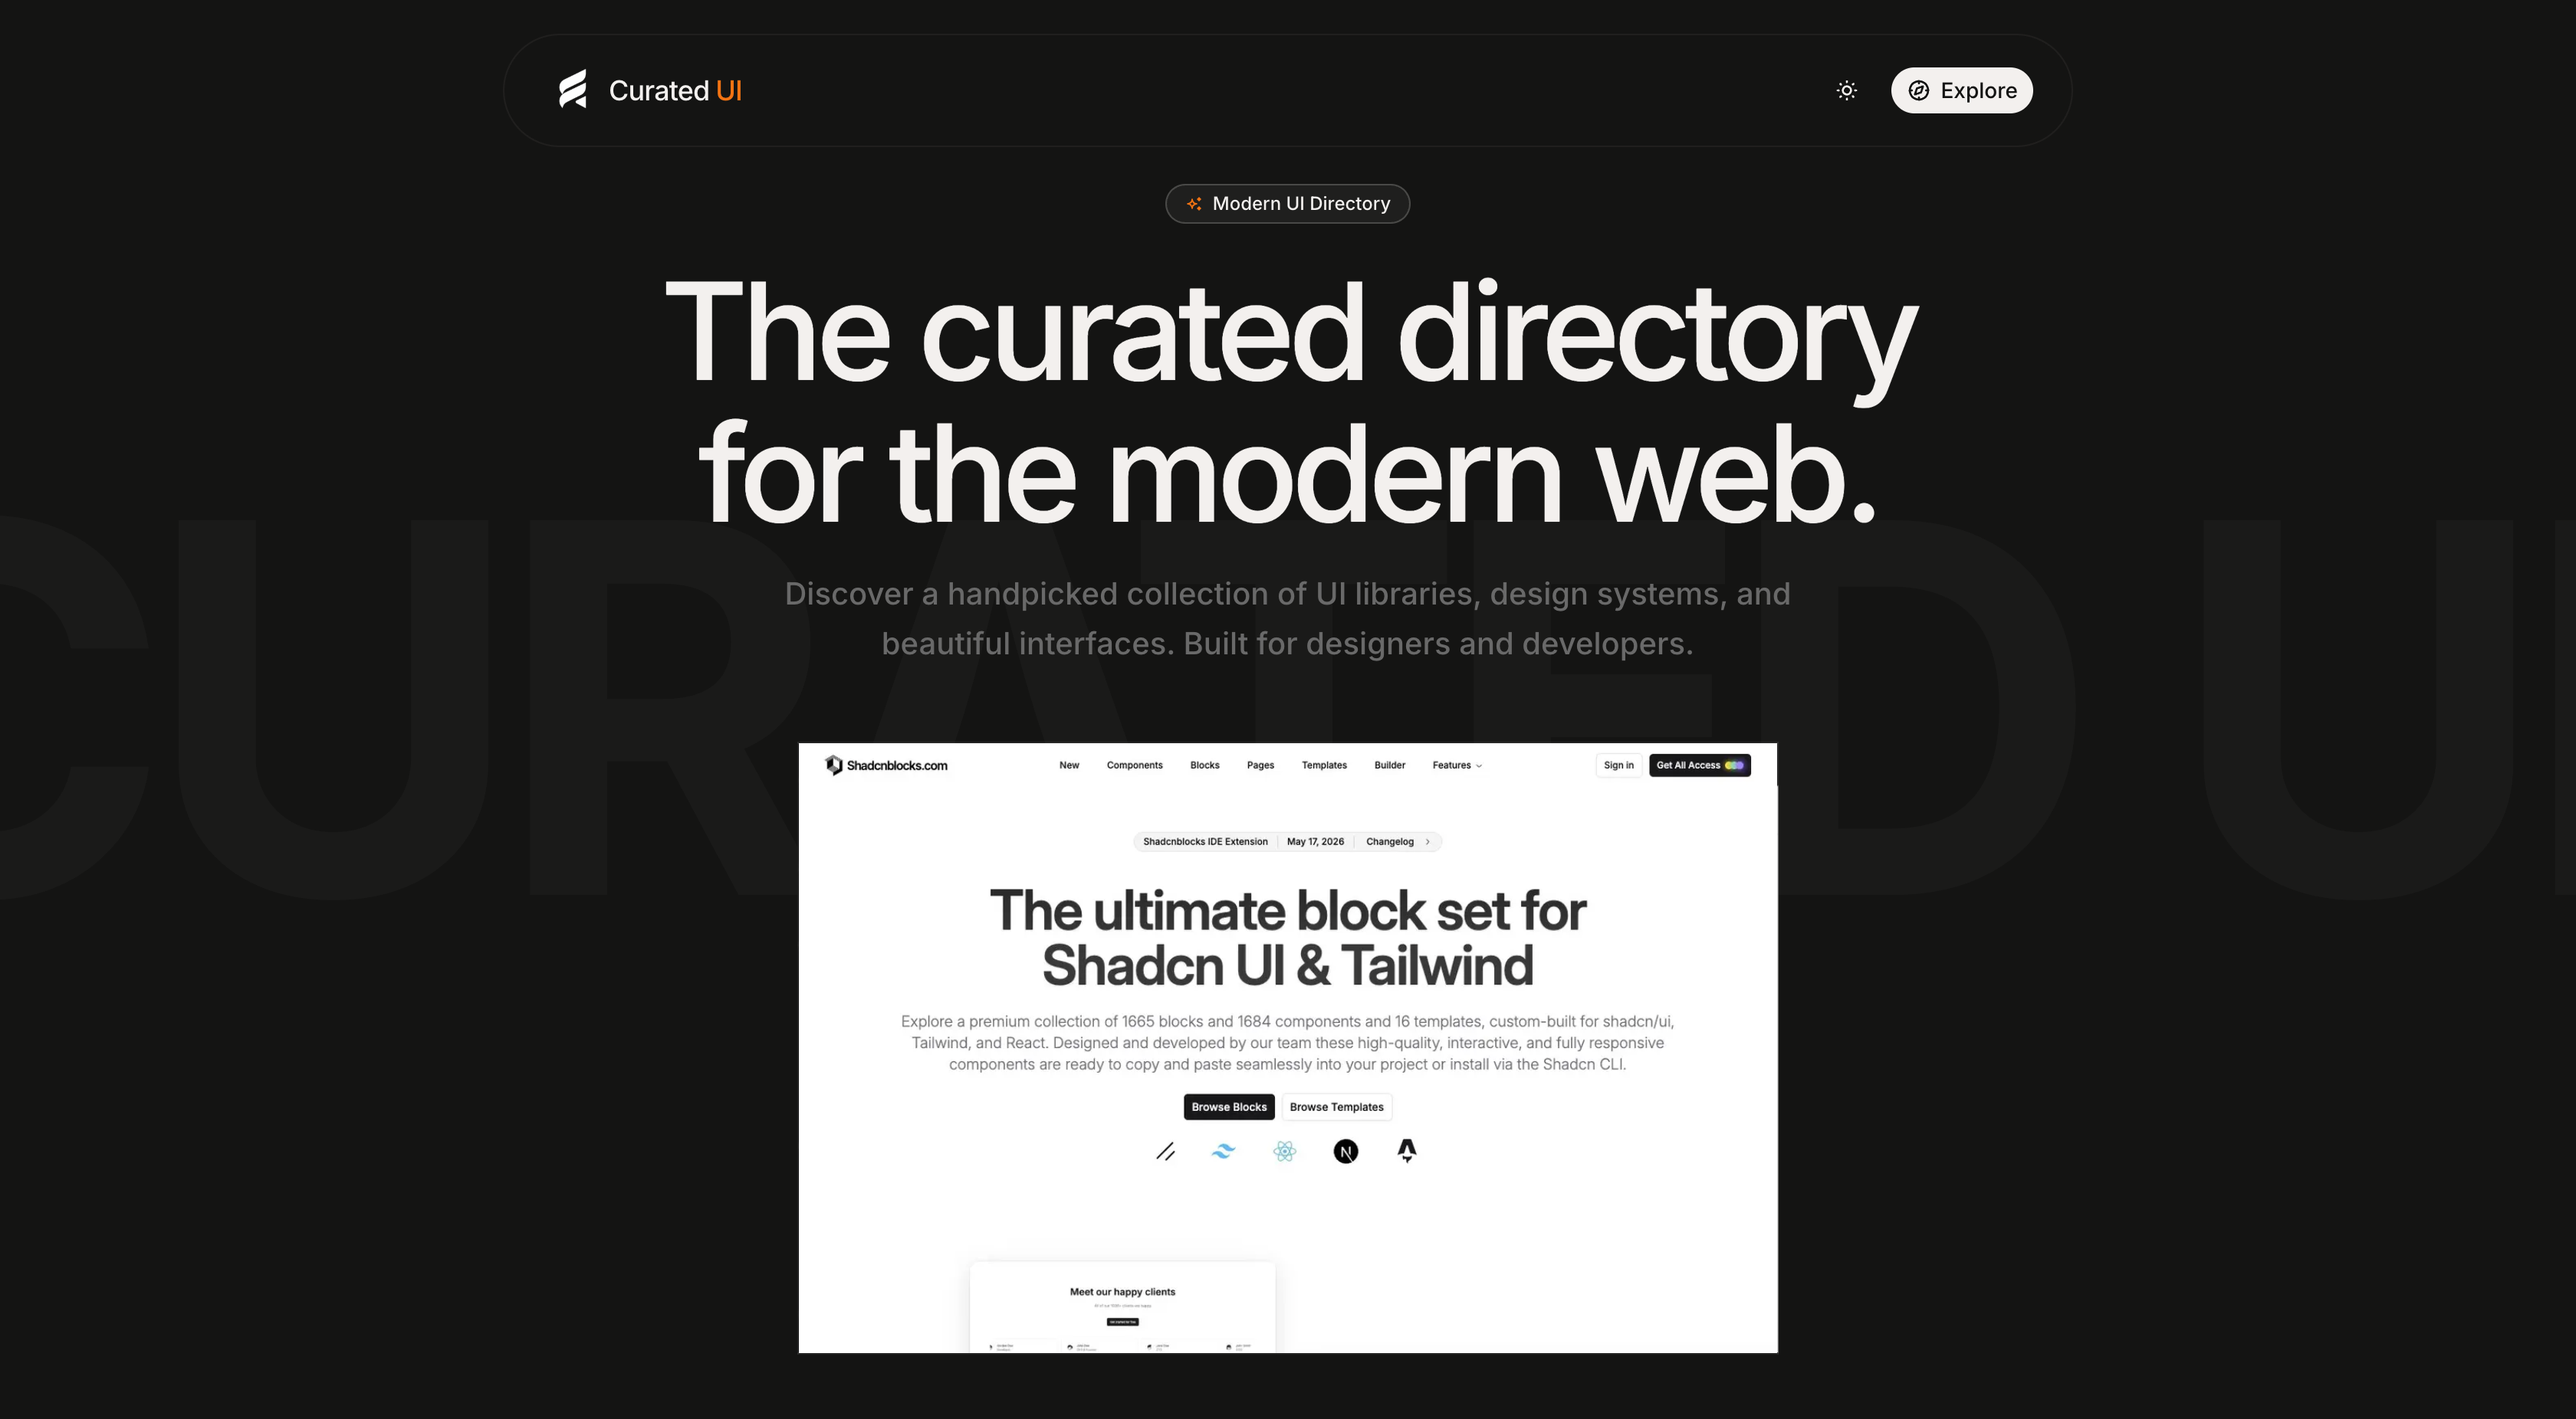
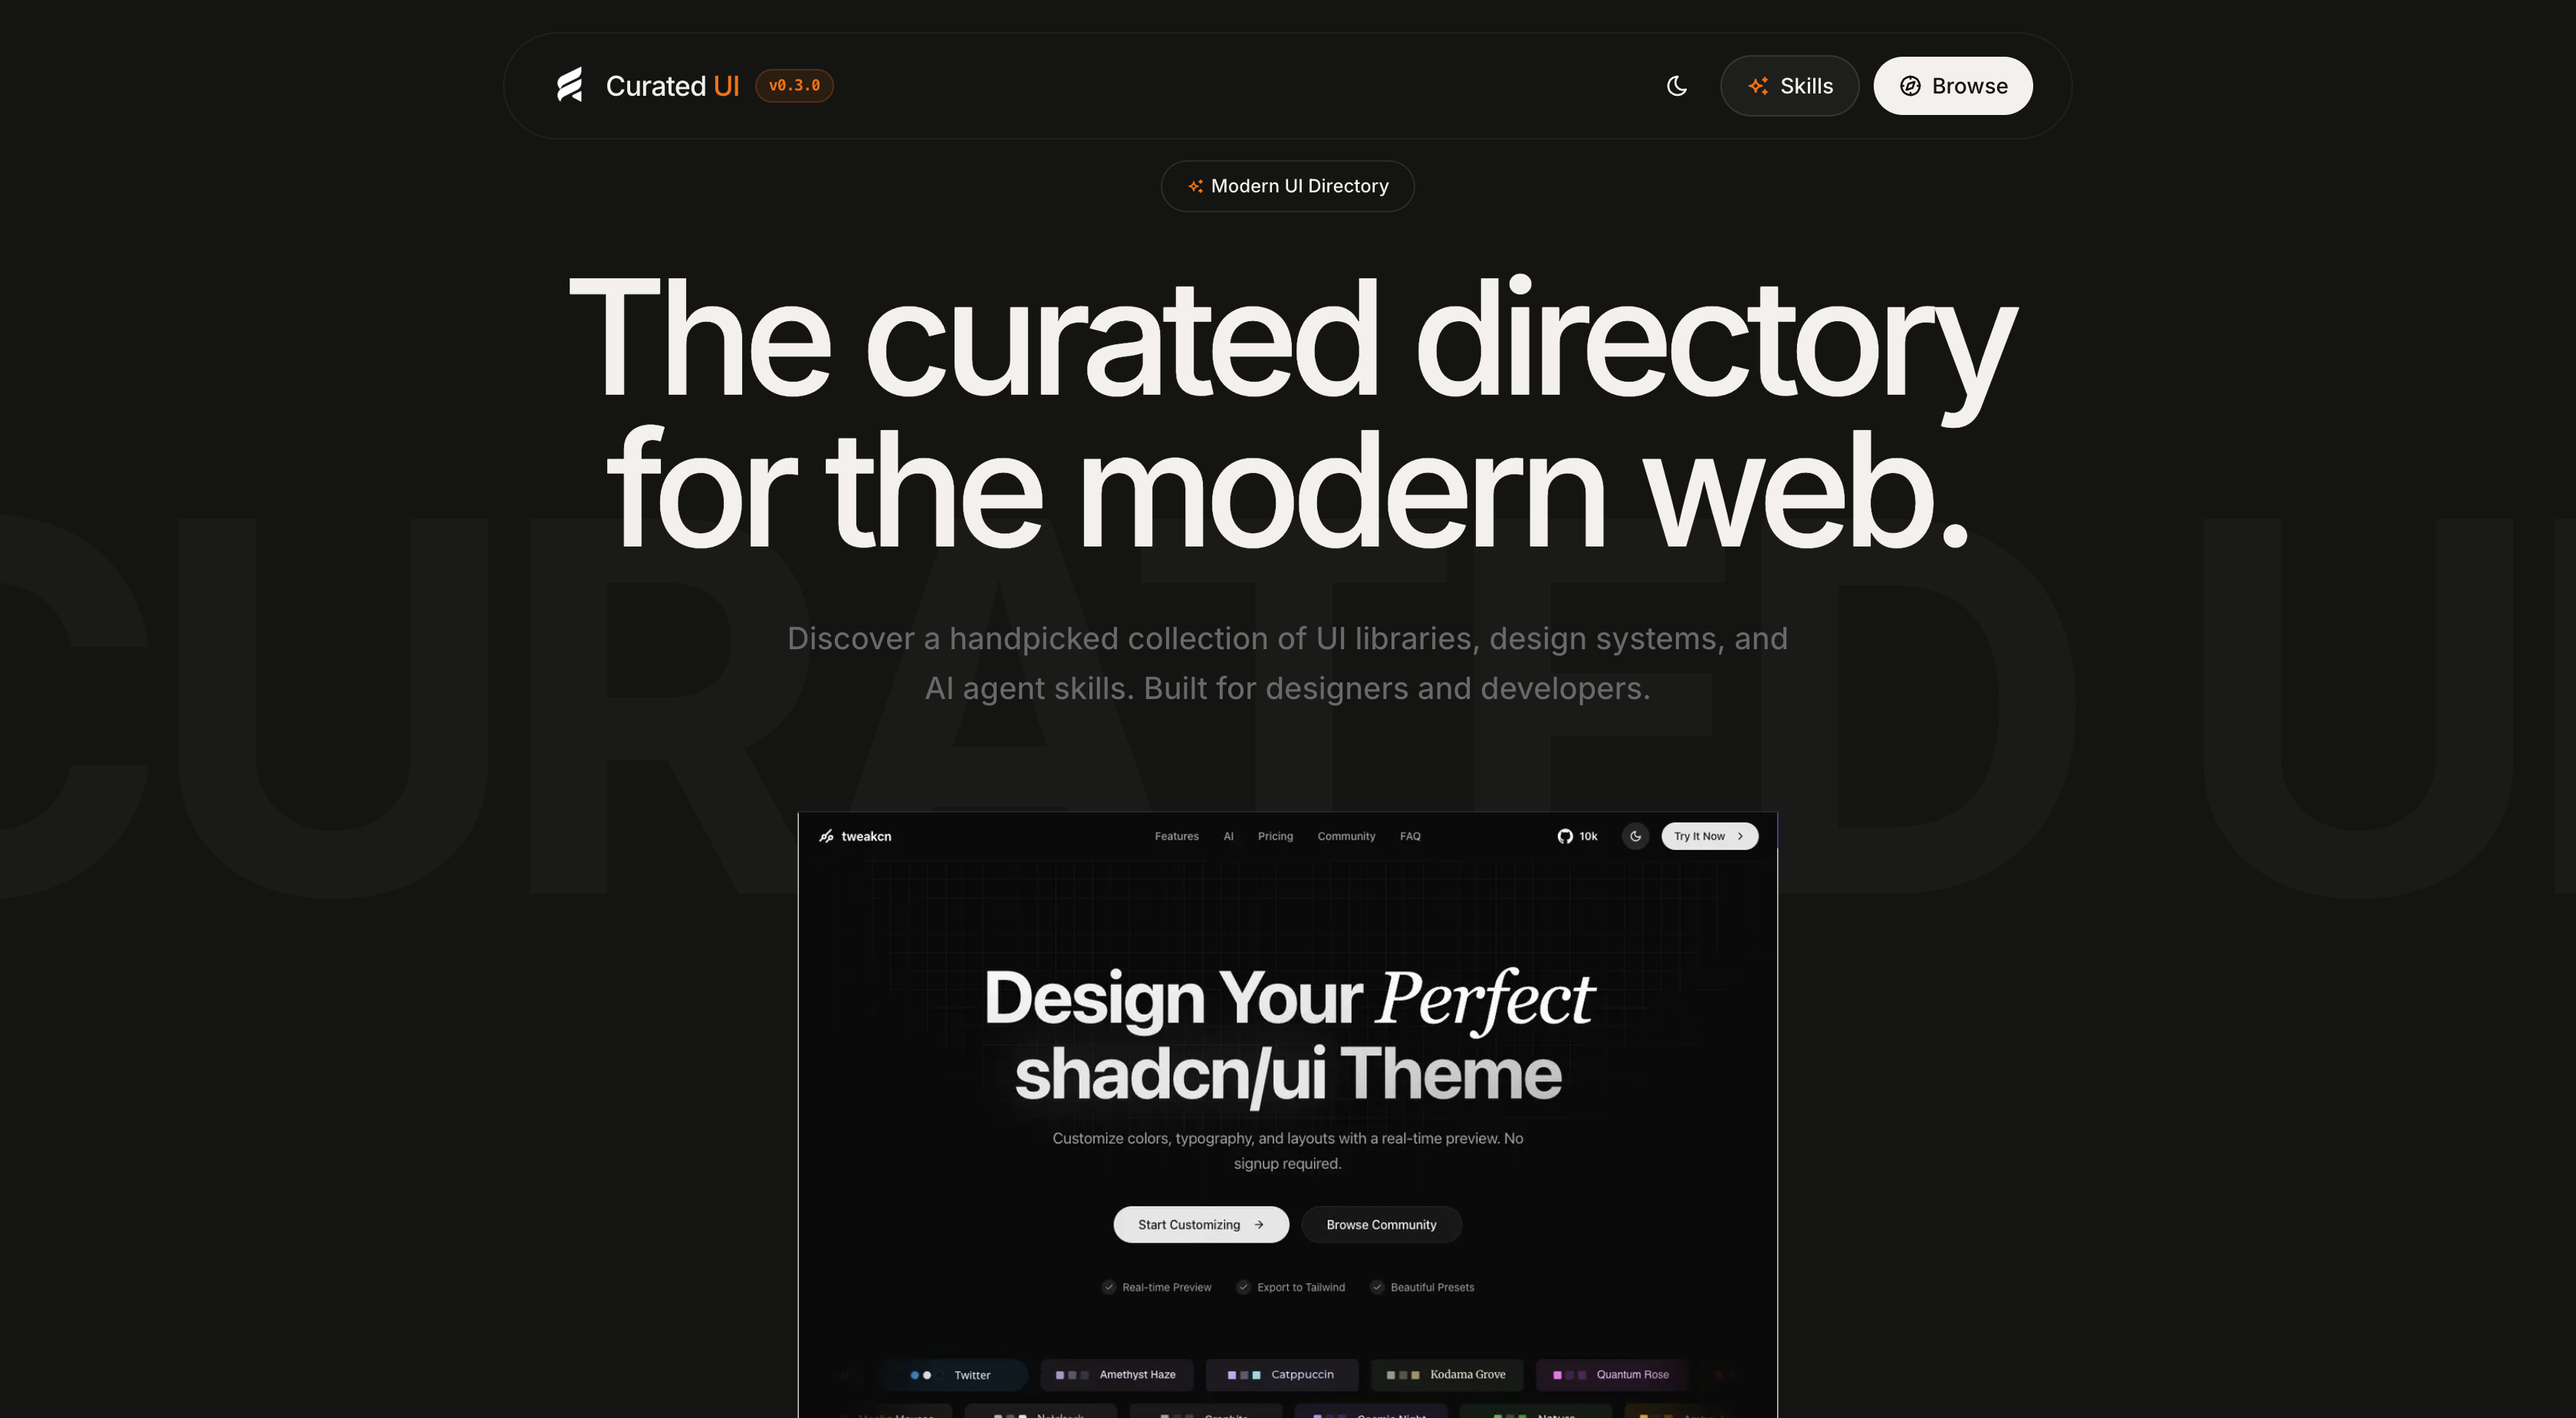
refactor: rename explore directory to browse and update associated routes and templates

diff --git a/src/app/browse/page.jsx b/src/app/browse/page.jsx
@@ -1,25 +1,25 @@
 import { Suspense } from "react";
-import { ExploreContent } from "./explore-content";
+import { BrowseContent } from "./browse-content";
 import { SiteCardSkeleton } from "@/components/site-card";
 import { Skeleton } from "@/components/ui/skeleton";
 import { sites } from "@/data/sites";
 
 export const metadata = {
-  title: "Explore UI Directory",
+  title: "Browse UI Directory",
   description:
     "Browse the curated directory of modern UI components, design systems, icons, animations, and web development libraries.",
   alternates: {
-    canonical: "/explore",
+    canonical: "/browse",
   },
   openGraph: {
-    title: "Explore UI Directory | Curated UI",
+    title: "Browse UI Directory | Curated UI",
     description:
       "Browse the curated directory of modern UI components, design systems, icons, animations, and web development libraries.",
-    url: "https://ui.zeropse.me/explore",
+    url: "https://ui.zeropse.me/browse",
   },
 };
 
-export default function ExplorePage() {
+export default function BrowsePage() {
   const jsonLd = {
     "@context": "https://schema.org",
     "@type": "ItemList",
@@ -69,7 +69,7 @@ export default function ExplorePage() {
           </div>
         }
       >
-        <ExploreContent />
+        <BrowseContent />
       </Suspense>
     </main>
   );

diff --git a/src/app/page.jsx b/src/app/page.jsx
@@ -52,7 +52,7 @@ export default function Home() {
       "A hand-curated directory of modern UI components, design systems, and AI agent skills.",
     potentialAction: {
       "@type": "SearchAction",
-      target: "https://ui.zeropse.me/explore?q={search_term_string}",
+      target: "https://ui.zeropse.me/browse?q={search_term_string}",
       "query-input": "required name=search_term_string",
     },
   };
@@ -164,7 +164,7 @@ export default function Home() {
                 </Button>
 
                 <Button
-                  render={<Link href="/explore" />}
+                  render={<Link href="/browse" />}
                   nativeButton={false}
                   className="rounded-full gap-2 px-7 py-6 text-base font-medium"
                 >

diff --git a/src/app/browse/browse-content.jsx b/src/app/browse/browse-content.jsx
@@ -42,7 +42,7 @@ const virtuosoComponents = {
 virtuosoComponents.List.displayName = "VirtuosoGridList";
 virtuosoComponents.Item.displayName = "VirtuosoGridItem";
 
-export function ExploreContent() {
+export function BrowseContent() {
   const [activeCategory, setActiveCategory] = useQueryState("category", {
     defaultValue: "All",
   });
@@ -68,7 +68,7 @@ export function ExploreContent() {
   return (
     <>
       <SearchFilterBar
-        title="Explore the Directory"
+        title="Browse the Directory"
         searchPlaceholder="Search components, templates, animations... (Ctrl+K)"
         ariaLabel="Search directory"
         categories={siteCategories}

diff --git a/src/components/layout/Footer.jsx b/src/components/layout/Footer.jsx
@@ -20,7 +20,7 @@ import {
 const year = new Date().getFullYear();
 
 const resourceLinks = [
-  { name: "Explore Sites", href: "/explore", icon: IconCompass },
+  { name: "Browse Sites", href: "/browse", icon: IconCompass },
   { name: "Popular Skills", href: "/skills", icon: IconSparkles },
   { name: "FAQ", href: "/faq", icon: IconHelp },
   { name: "Privacy Policy", href: "/privacy", icon: IconShieldLock },

diff --git a/src/components/layout/FloatingNav.jsx b/src/components/layout/FloatingNav.jsx
@@ -57,7 +57,7 @@ export function FloatingNav() {
           </Button>
 
           <Button
-            render={<Link href="/explore" />}
+            render={<Link href="/browse" />}
             nativeButton={false}
             className="rounded-full gap-1.5 px-3 sm:px-4 text-xs sm:text-sm h-9 sm:h-10"
           >

diff --git a/src/app/sitemap.js b/src/app/sitemap.js
@@ -7,7 +7,7 @@ export default function sitemap() {
       priority: 1.0,
     },
     {
-      url: "https://ui.zeropse.me/explore",
+      url: "https://ui.zeropse.me/browse",
       lastModified: new Date(),
       changeFrequency: "weekly",
       priority: 0.9,
